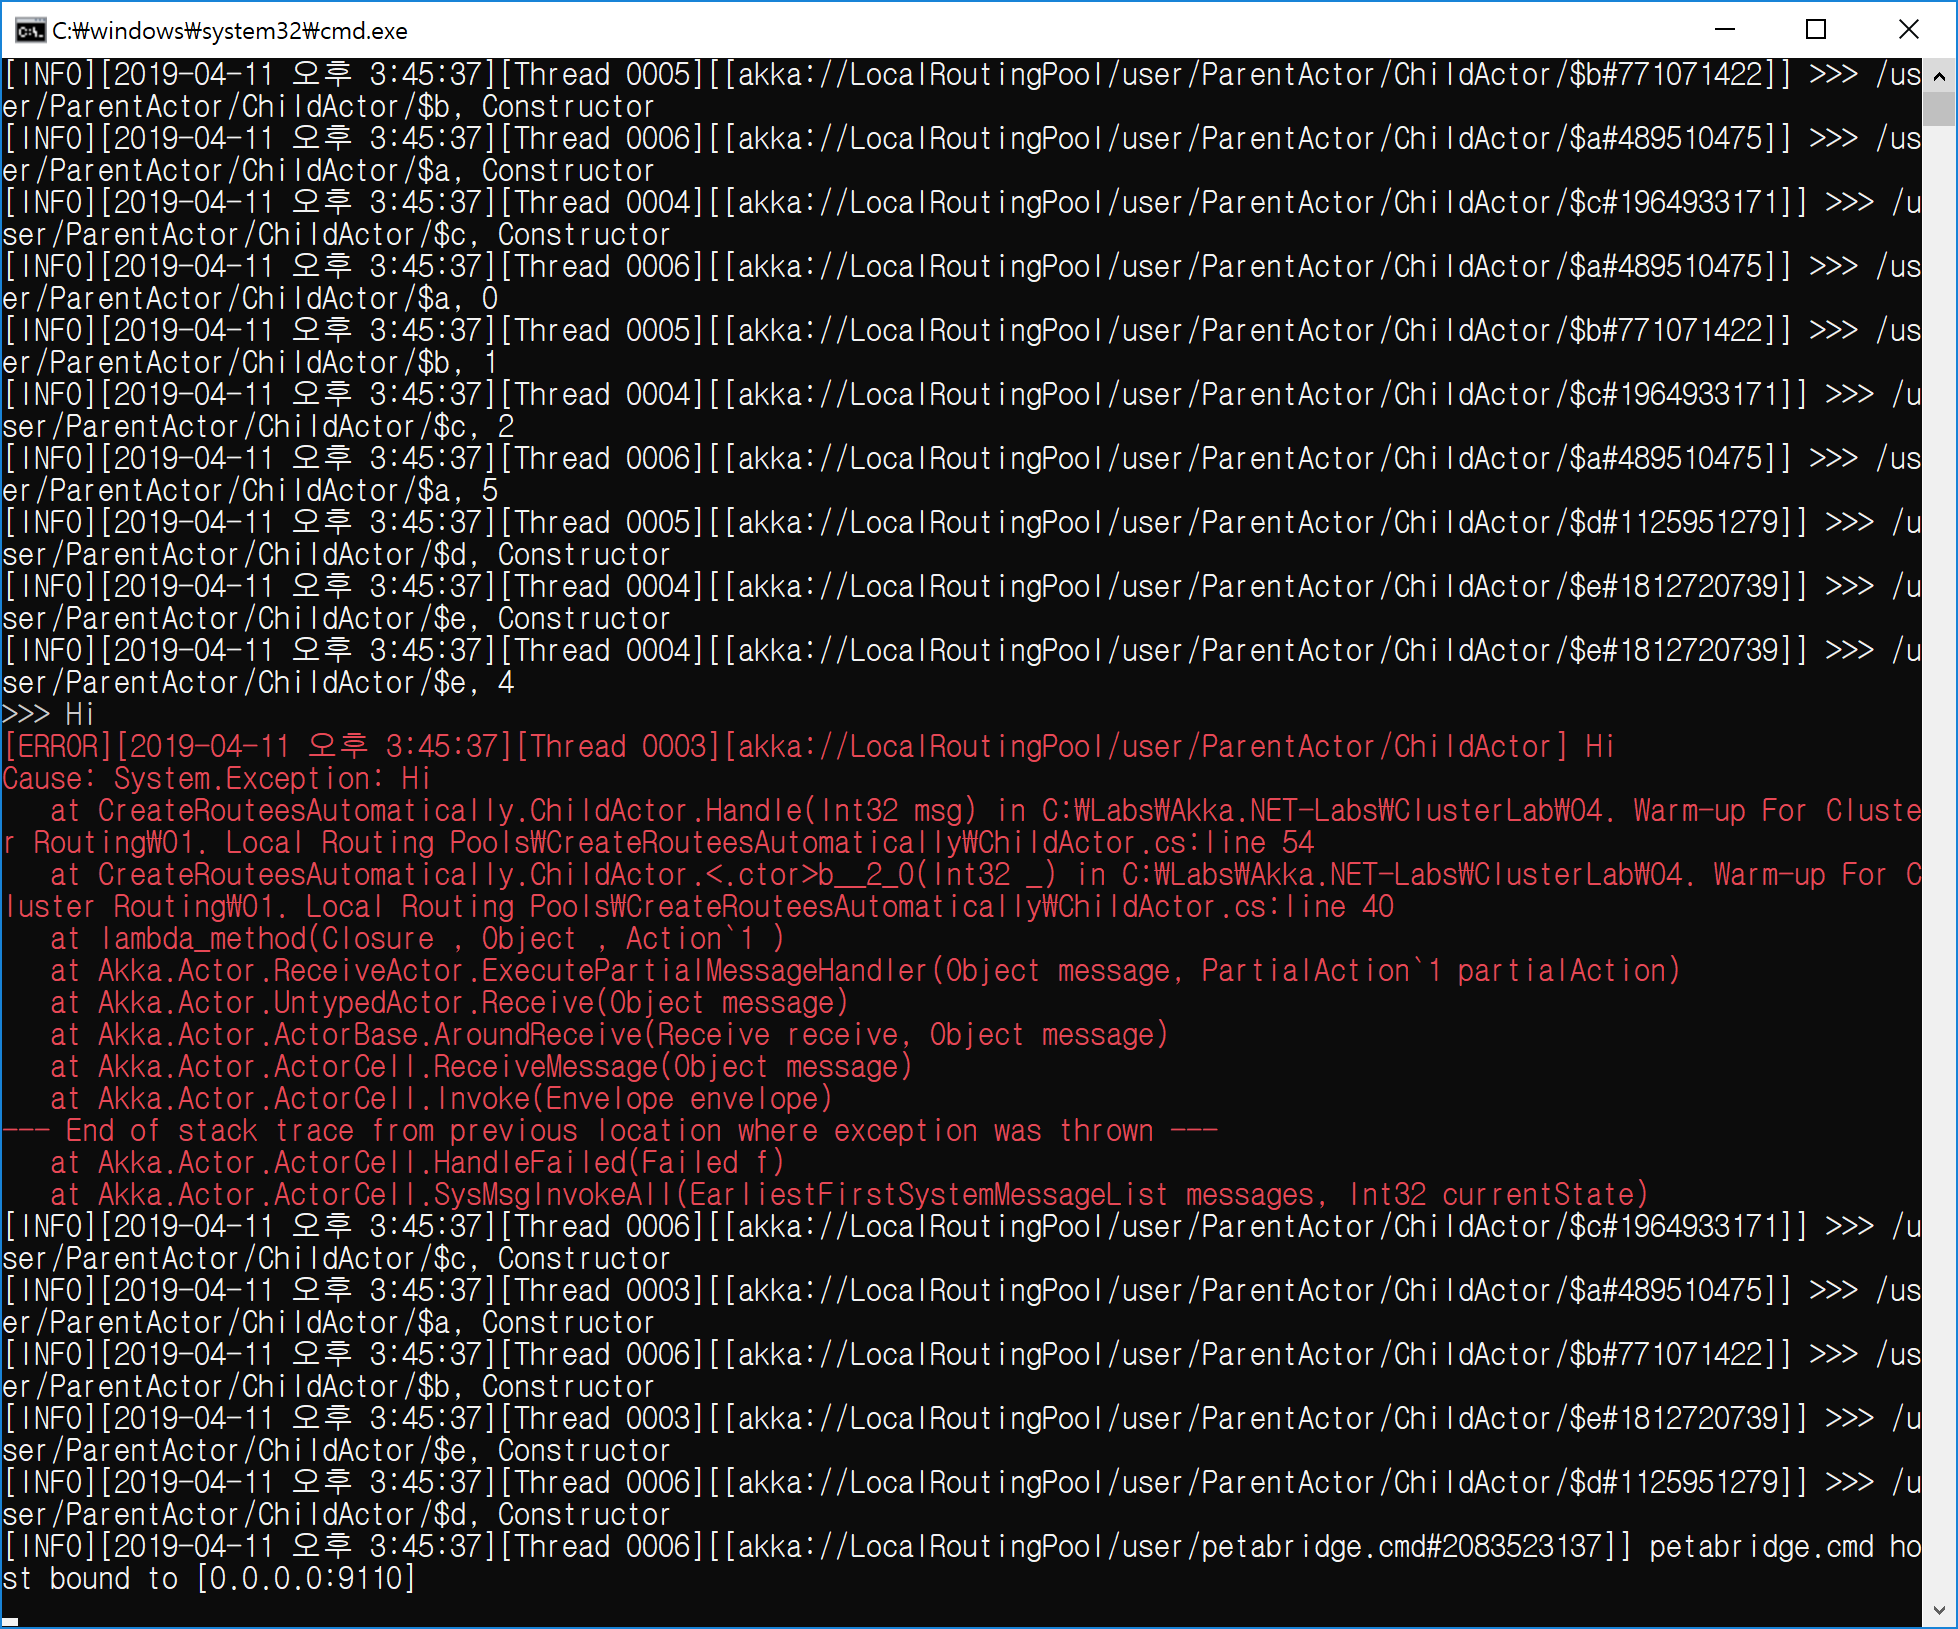
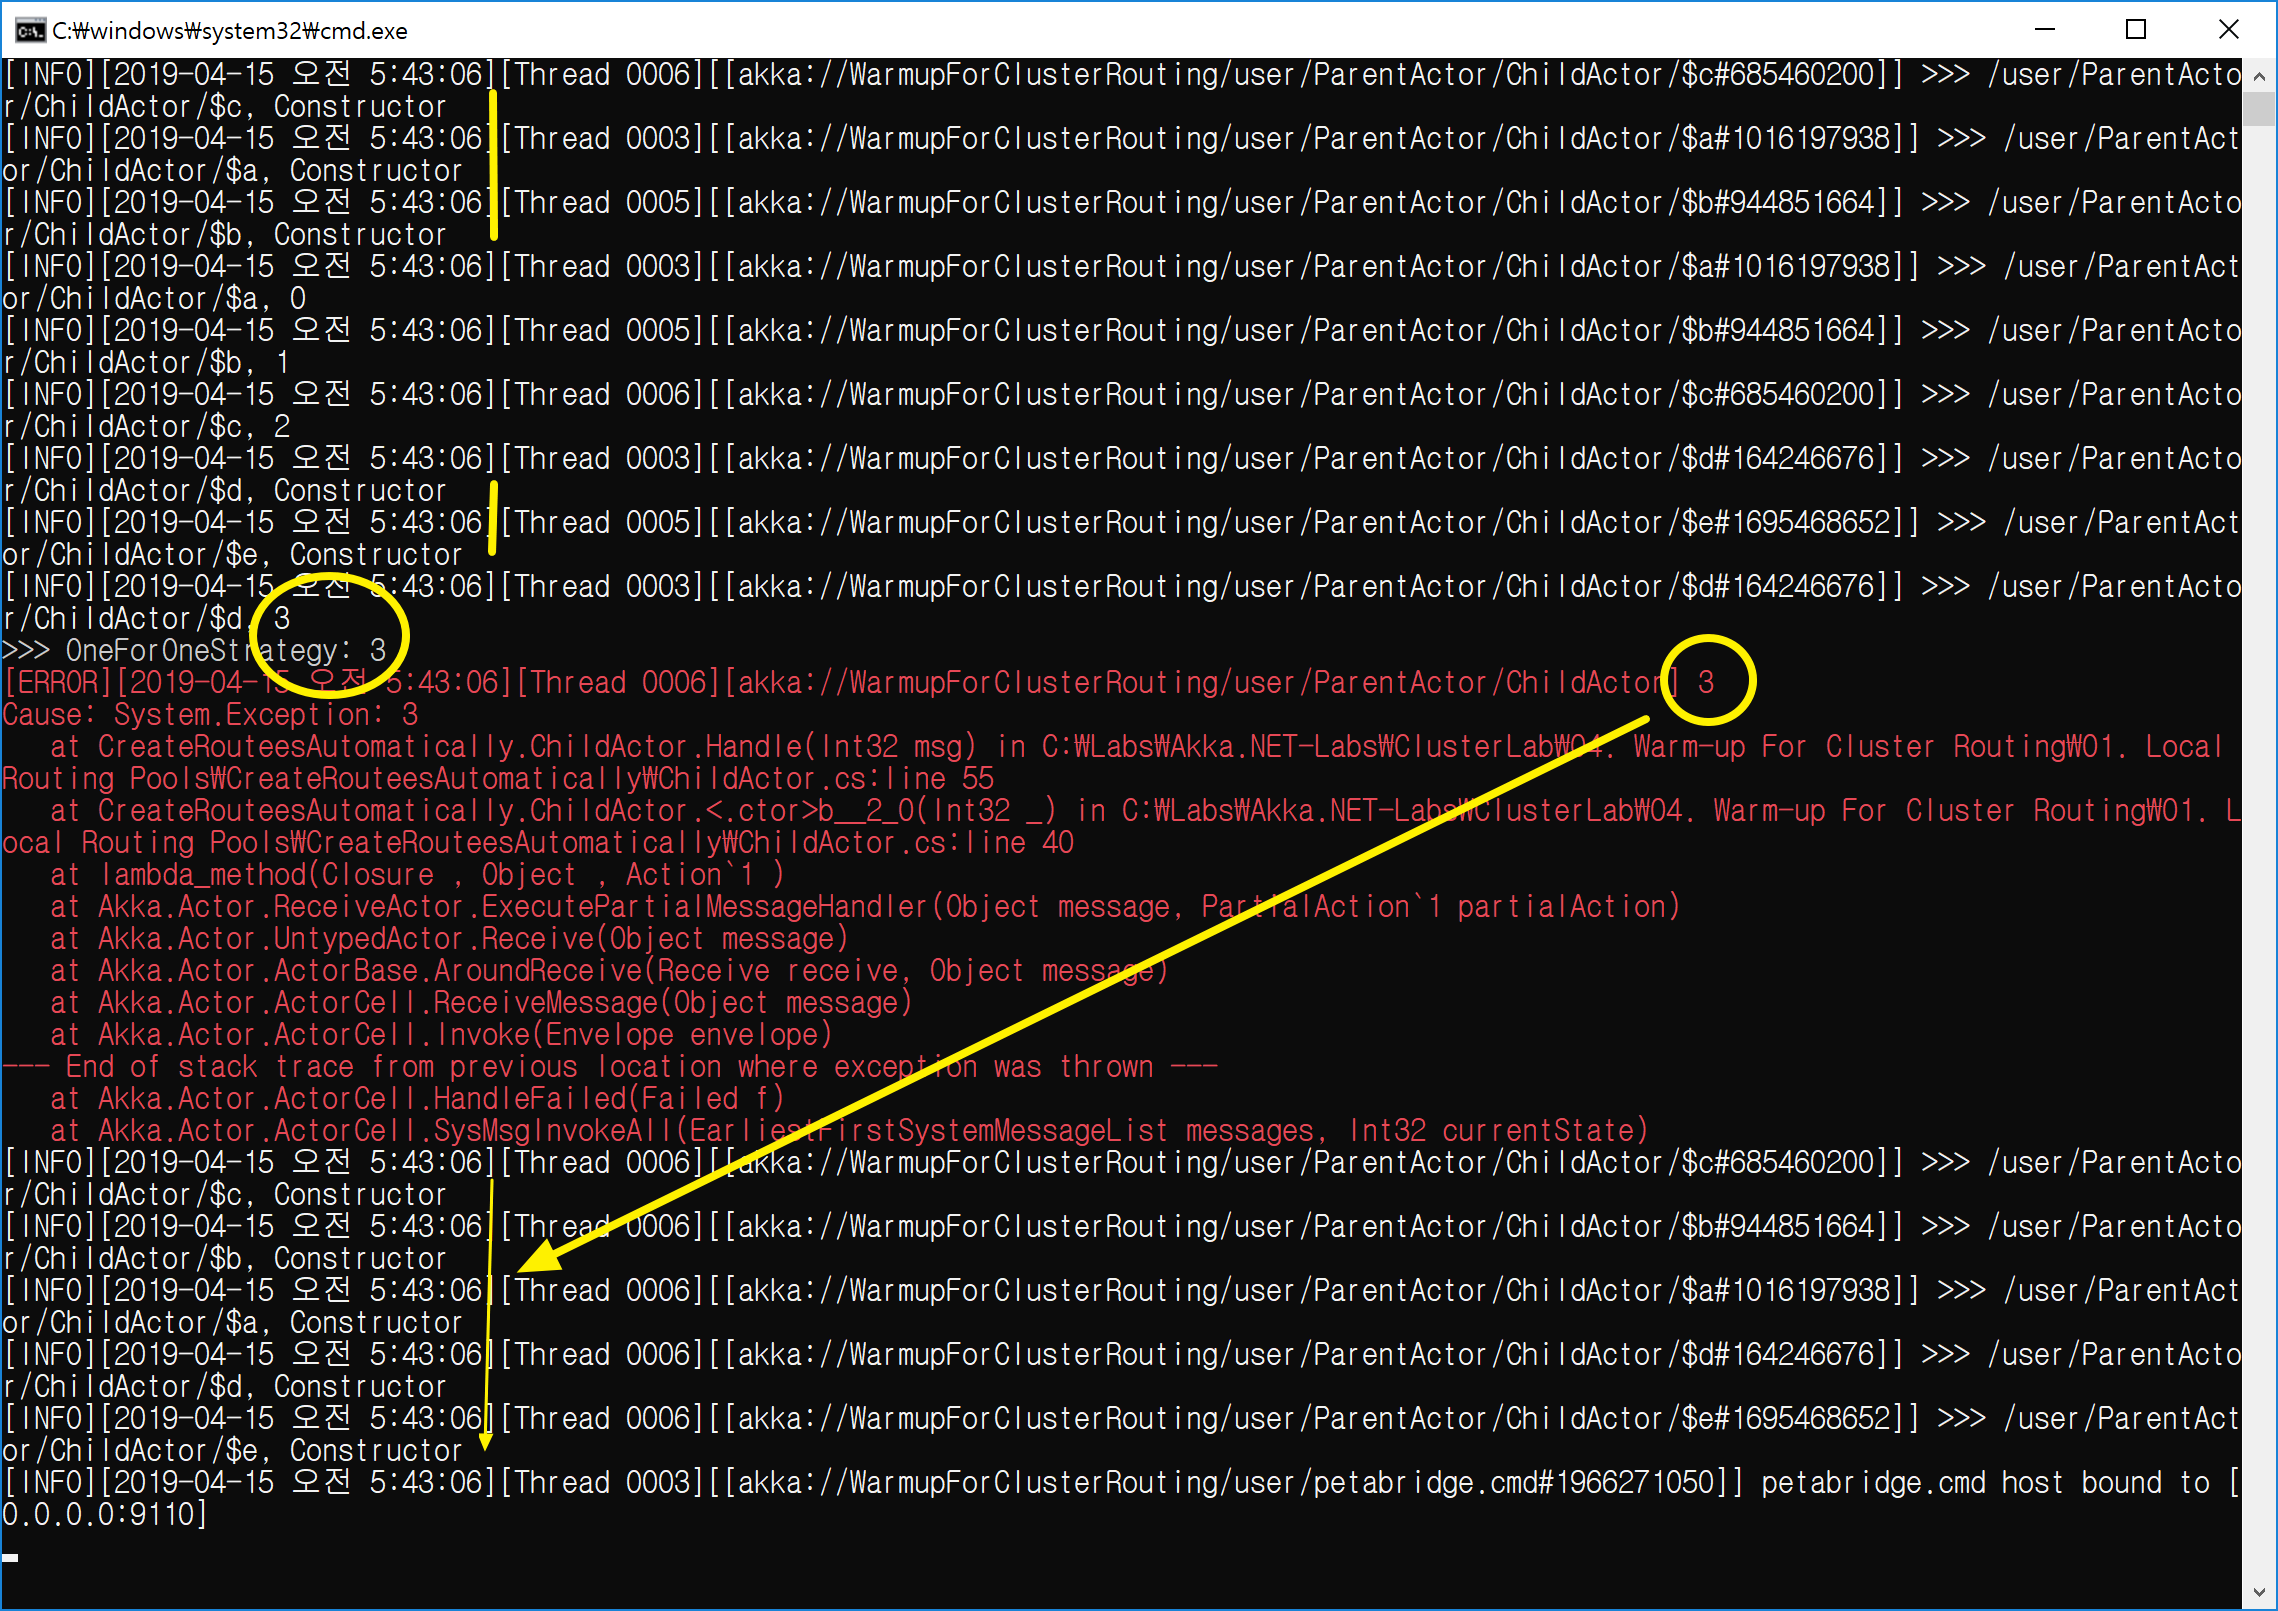
Routing Pool 예제를 추가한다.

Changed region(s): [[0.0, 0.0, 1.0, 1.0], [0.7477, 0.5897, 0.8412, 0.6207]]

diff --git a/ClusterLab/04. Warm-up For Cluster Routing/01. Local Routing Pools/CreateRouteesAutomatically/ParentActor.cs b/ClusterLab/04. Warm-up For Cluster Routing/01. Local Routing Pools/CreateRouteesAutomatically/ParentActor.cs
@@ -24,7 +24,7 @@ namespace CreateRouteesAutomatically
                     // 
                     // Why?
                     // Props 함수가 static 이기 때문이다.
-                    Console.WriteLine($">>> {ex.Message}");
+                    Console.WriteLine($">>> OneForOneStrategy: { ex.Message}");
 
                     //
                     // [[[ Routing 장애 처리 전략 이해 ]]]
@@ -50,7 +50,7 @@ namespace CreateRouteesAutomatically
         {
             IActorRef childActor = Context.ActorOf(ChildActor.Props(), nameof(ChildActor));
 
-            for (int i = 0; i < 6; i++)
+            for (int i = 0; i < 4; i++)
                 childActor.Tell(i);
         }
 

diff --git a/ClusterLab/04. Warm-up For Cluster Routing/01. Local Routing Pools/CreateRouteesAutomatically/ChildActor.cs b/ClusterLab/04. Warm-up For Cluster Routing/01. Local Routing Pools/CreateRouteesAutomatically/ChildActor.cs
@@ -48,10 +48,10 @@ namespace CreateRouteesAutomatically
 
         private void Handle(int msg)
         {
-            if (msg == 3)
-                throw new Exception("Hi");
-
             _log.Info($">>> {Self.Path.ToStringWithoutAddress()}, {msg}");
+
+            if (msg == 3)
+                throw new Exception(msg.ToString());
         }
     }
 }

diff --git a/ClusterLab/04. Warm-up For Cluster Routing/01. Local Routing Pools/README.md b/ClusterLab/04. Warm-up For Cluster Routing/01. Local Routing Pools/README.md
@@ -1,0 +1,72 @@
+## 자동으로 액터를 생성하여 라우팅하기
+
+TODO 1. /user/MyRouter/$a
+			--> MyRouter로 장의 처리 전략을 수립하자.
+	
+
+
+1. Petabridge.Cmd.Host NuGet을 설치한다.
+
+2. Routing 계층 구조 이해
+	// compile-time 계층 구조
+	Parent
+	Son			// WithRouter(new ...)
+
+	vs.
+
+	// run-time 계층 구조
+	Parent
+	Son			// Router, 장애 처리 전략: Escalate
+	$a			// Routee
+
+3. Routee 장애 처리 전략은 기본적으로 "Router 부모"에서 정의한다.
+	Parent		// WithSupervisorStrategy: Routee 장애 처리 전략이다.
+	Son			// WithRouter
+
+4. WithSupervisorStrategy vs. override SupervisorStrategy 함수 호출 우선 순위
+	WithSupervisorStrategy > override SupervisorStrategy 함수
+
+5. Router의 기존 장애 처리 전략 "Escalate"을 변경하고 싶다면,
+   Router 전략 객체에 지정하면 된다.
+	Parent
+	Son			// WithRounter(new ...()
+				//		.WithSupervisorStrategy( ... )
+				//	)
+
+6. 환경 설정 파일에 있는 Router 전략 사용하기
+	using Akka.Routing;
+
+	.WithRouter(FromConfig.Instance)
+
+
+
+FAQ 1. Config 설정에서 Actor Path가 일치하지 않을 때 발생되는 run-time 예외
+	A. 발생되는 경우
+		a. akka.actor.deployment 계층 구조 불일치
+	    b. Actor Path 불일치
+
+	B. 예외
+	Akka.Configuration.ConfigurationException: 
+		'Configuration problem while creating [akka://LocalRoutingPool/user/GrandFatherActor] 
+		with router dispatcher [akka.actor.default-dispatcher] and mailbox [] 
+		and routee dispatcher [akka.actor.default-dispatcher] and mailbox [].'
+	ConfigurationException: 
+		Configuration missing for router [akka://LocalRoutingPool/user/GrandFatherActor] 
+		in 'akka.actor.deployment' section.
+
+	C. 예제 - akka.actor.deployment 계층 구조 불일치
+		akka {
+			deployment {
+				/GrandFatherActor { ... }
+			}
+		}
+
+		vs. 
+
+		akka {
+			actor {
+				/GrandFatherActor { ... }
+			}
+		}
+
+
